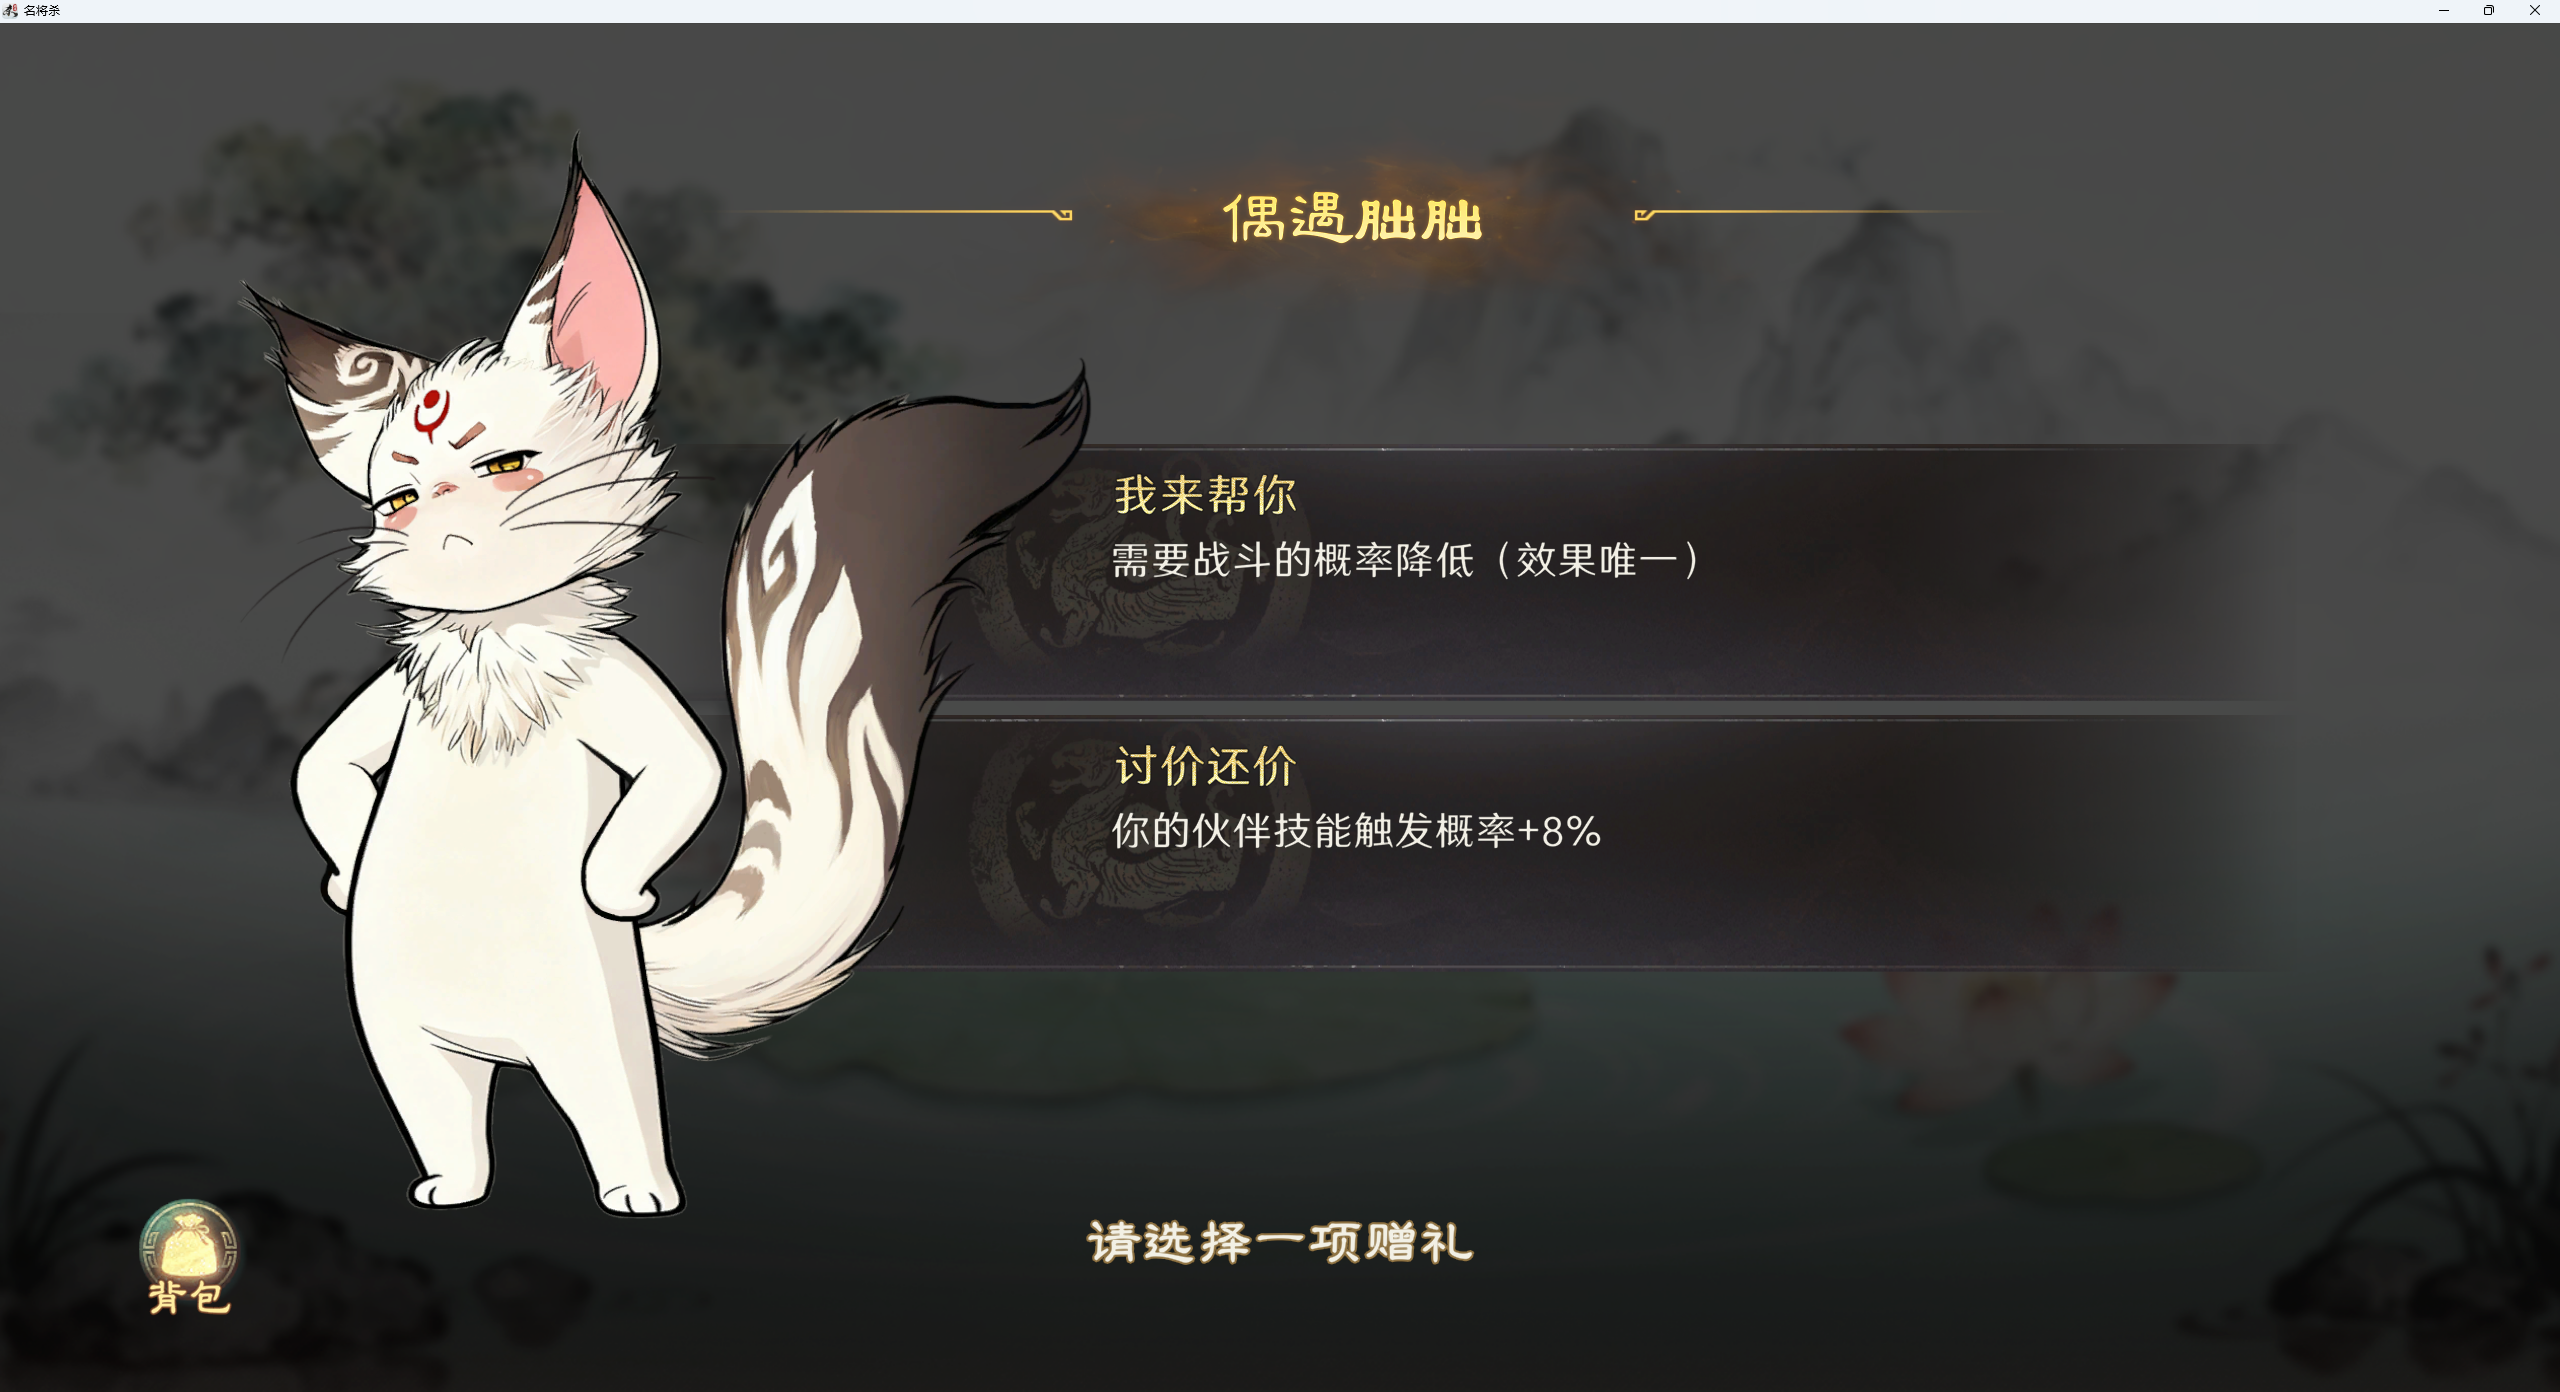
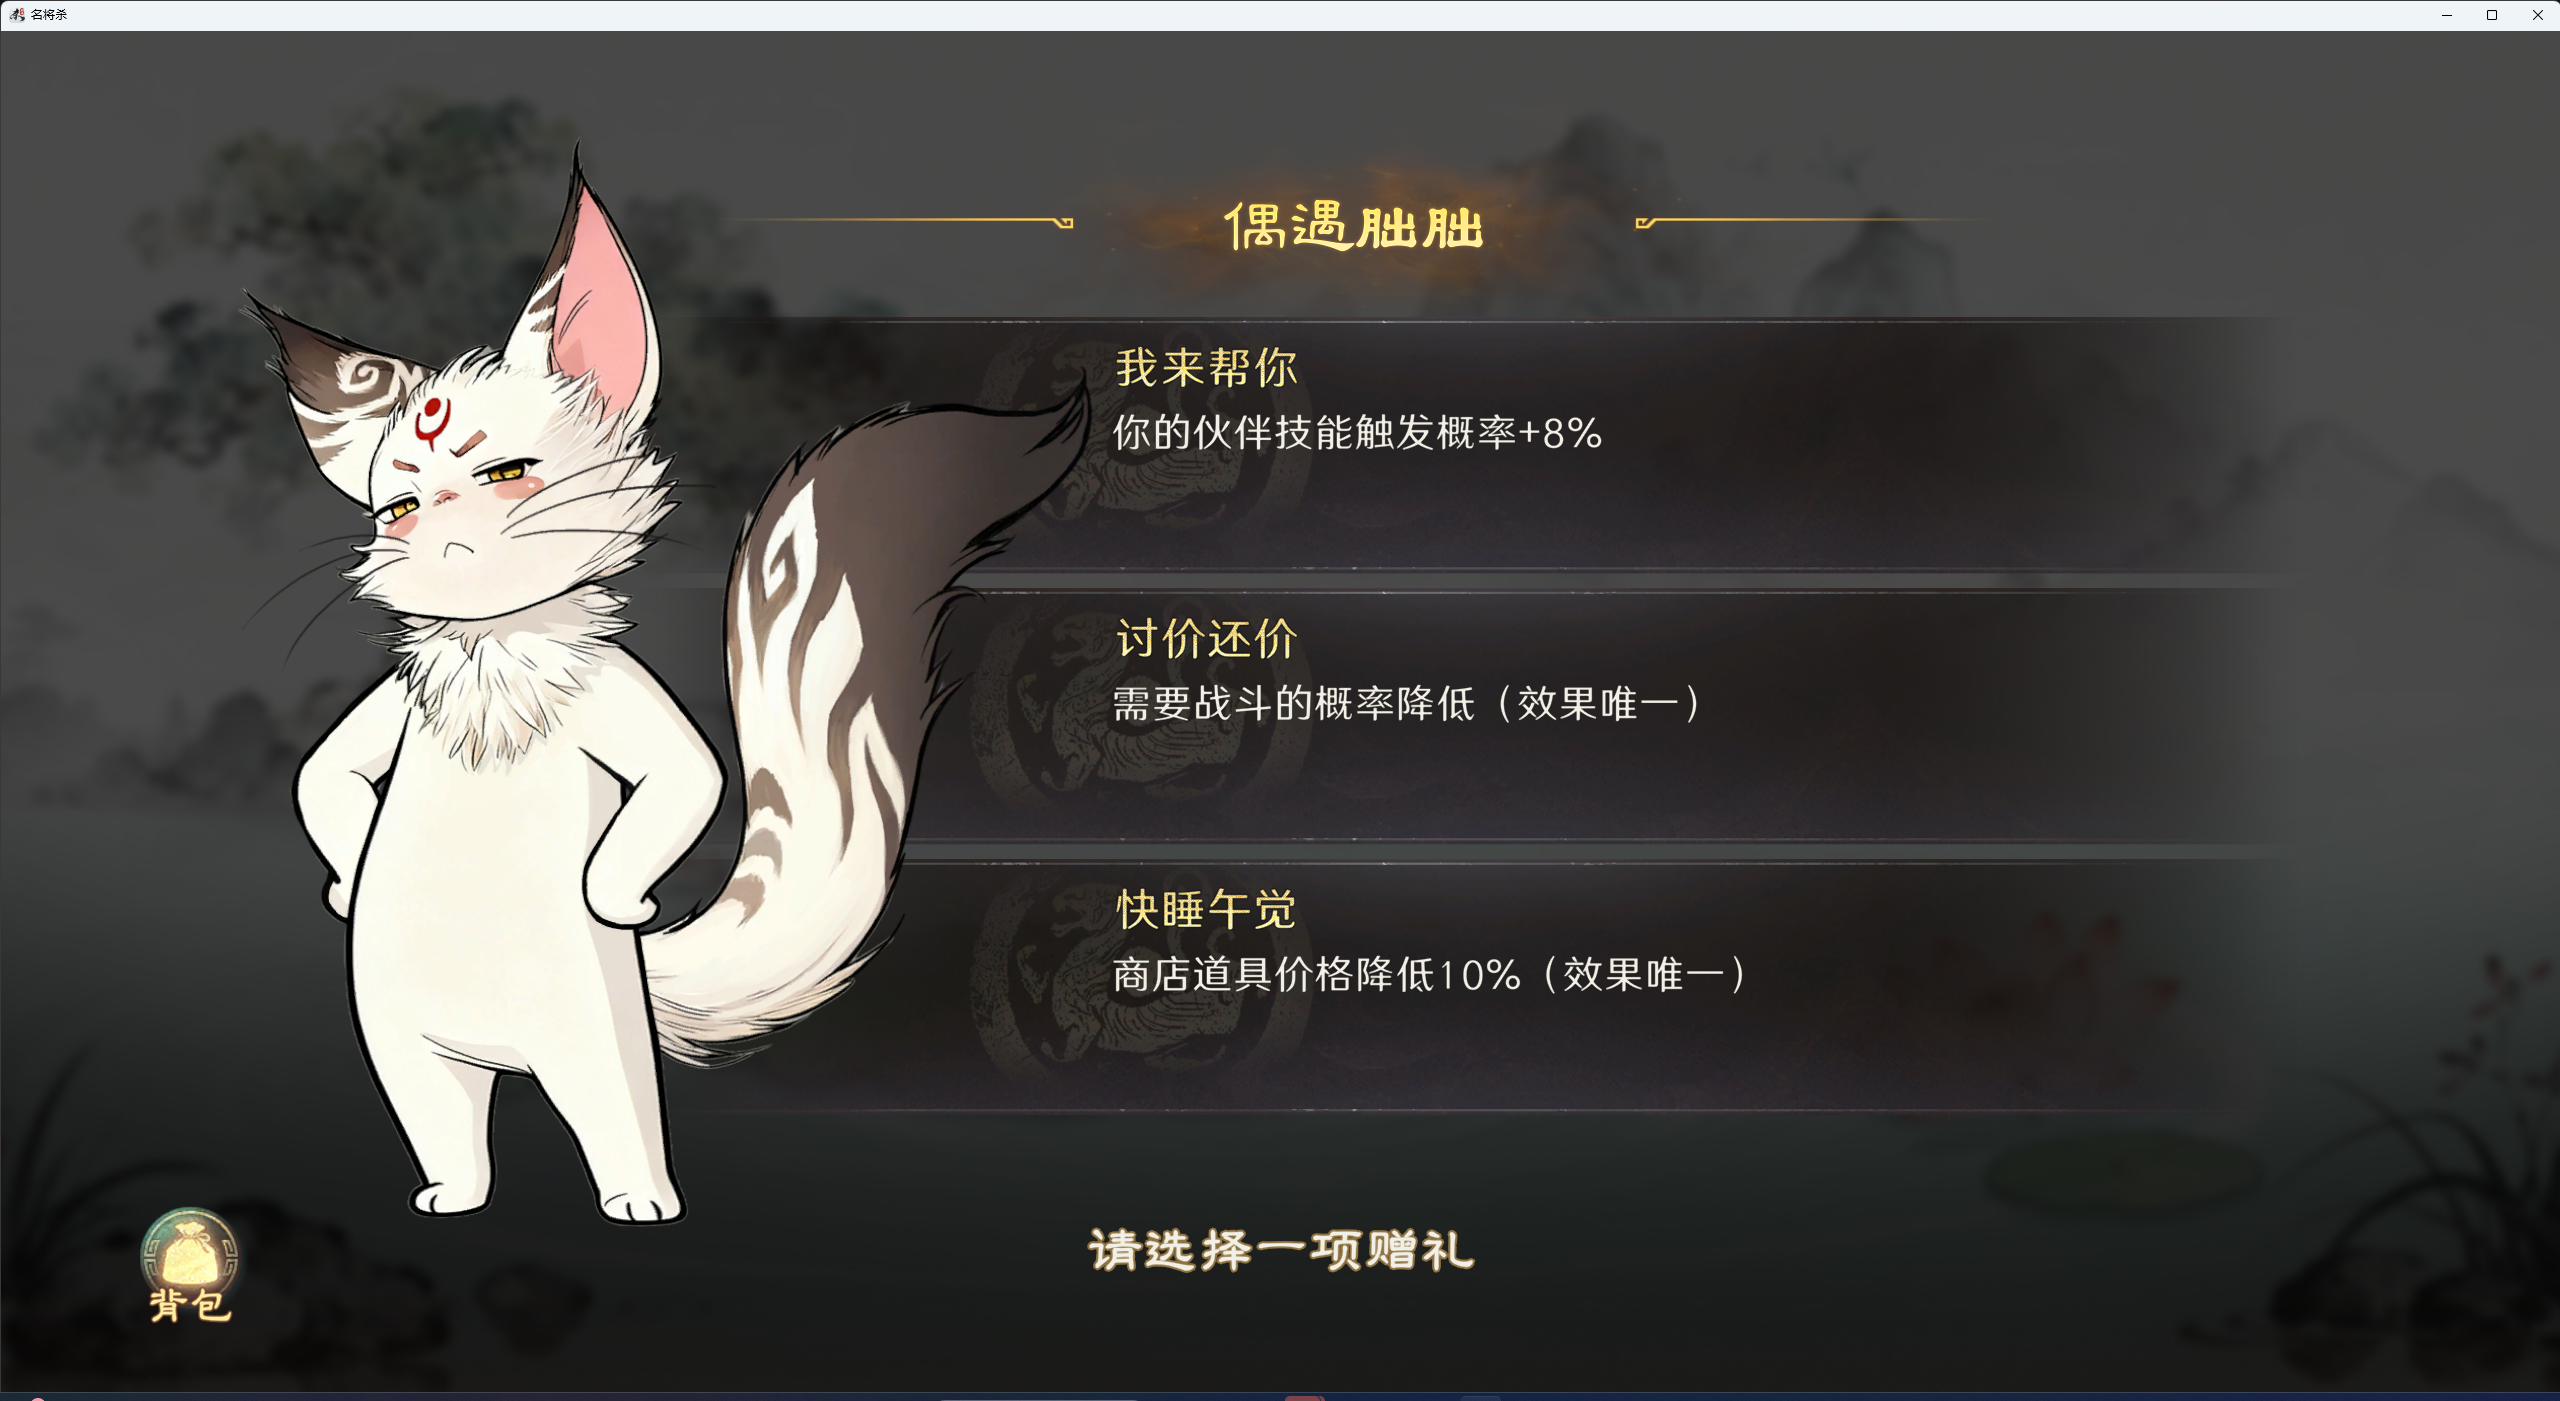
feat(qianlidanqi): 妃妃事件选项改图片模板，优先级 快睡午觉>我来帮你>讨价还价

diff --git a/games/mingjiangsha/scripts/qianlidanqi/steps/run.py b/games/mingjiangsha/scripts/qianlidanqi/steps/run.py
@@ -28,6 +28,9 @@ from ..store import (
 )
 from ..templates import (
     T_CLAIM_REWARD,
+    T_EVENT_FEIFEI_BARGAIN,
+    T_EVENT_FEIFEI_HELP,
+    T_EVENT_FEIFEI_SLEEP,
     T_FIGHT_AUTO,
     T_FIGHT_AUTO_OFF,
     T_FIGHT_CANCEL,
@@ -170,7 +173,7 @@ EVENT_OPTION_REGIONS = (Region(1000, 450, 900, 140), Region(1000, 700, 900, 140)
 EVENT_OPTION_POINTS = (Point(1300, 530), Point(1300, 775))
 
 #: 妃妃选项优先级（老代码：我来帮你 > 讨价还价）。
-EVENT_OPTION_PRIORITY = ("我来帮你", "讨价还价")
+EVENT_OPTION_PRIORITY = ("快睡午觉", "我来帮你", "讨价还价")
 
 
 def choose_node(ctx: RunContext) -> ActionResult[Any]:
@@ -515,7 +518,25 @@ def enter_event(ctx: RunContext) -> ActionResult[Any]:
 
 
 def choose_event_option(ctx: RunContext) -> ActionResult[Any]:
-    """奇遇选择页：按妃妃优先级选一行；其他事件先选第一行。"""
+    """奇遇选择页：妃妃按图片优先级选；其他事件先选第一行。
+
+    妃妃优先级：快睡午觉 > 我来帮你 > 讨价还价（艺术字，用模板不 OCR）。
+    """
+    for template, name in (
+        (T_EVENT_FEIFEI_SLEEP, "快睡午觉"),
+        (T_EVENT_FEIFEI_HELP, "我来帮你"),
+        (T_EVENT_FEIFEI_BARGAIN, "讨价还价"),
+    ):
+        hit = ctx.frame().find_image(template)
+        if hit.ok and hit.value is not None:
+            clicked = actions.click_source_point(ctx.session, hit.value)
+            if not clicked.ok:
+                return clicked
+            ctx.invalidate_frame()
+            ctx.sleep(0.8)
+            return clicked.with_meta(option=name, point=(hit.value.x, hit.value.y))
+
+    # 其他事件没有这几张模板：退回 OCR，再不行点第一行
     texts: list[str] = []
     for region in EVENT_OPTION_REGIONS:
         read = ctx.frame().read_text(region)

diff --git a/games/mingjiangsha/scripts/qianlidanqi/templates/__init__.py b/games/mingjiangsha/scripts/qianlidanqi/templates/__init__.py
@@ -13,6 +13,9 @@ __all__ = [
     "T_CONFIRM",
     "T_CONGRATS",
     "T_EVENT_CHOICE_FEIFEI",
+    "T_EVENT_FEIFEI_BARGAIN",
+    "T_EVENT_FEIFEI_HELP",
+    "T_EVENT_FEIFEI_SLEEP",
     "T_EVENT_GIFT",
     "T_EVENT_INTRO_BACK",
     "T_FIGHT_AUTO",
@@ -121,6 +124,9 @@ T_EVENT_INTRO_BACK = "flow/event_back.png"
 T_EVENT_GIFT = "flow/event_gift.png"
 #: 妃妃选择页顶部标题「偶遇朏朏」（和赠礼类别屏区分）。
 T_EVENT_CHOICE_FEIFEI = "flow/event_choice_feifei.png"
+T_EVENT_FEIFEI_SLEEP = "flow/event_feifei_sleep.png"
+T_EVENT_FEIFEI_HELP = "flow/event_feifei_help.png"
+T_EVENT_FEIFEI_BARGAIN = "flow/event_feifei_bargain.png"
 
 # ---- 墨子选择 ----
 #: 墨子「请选择一种制造」。
